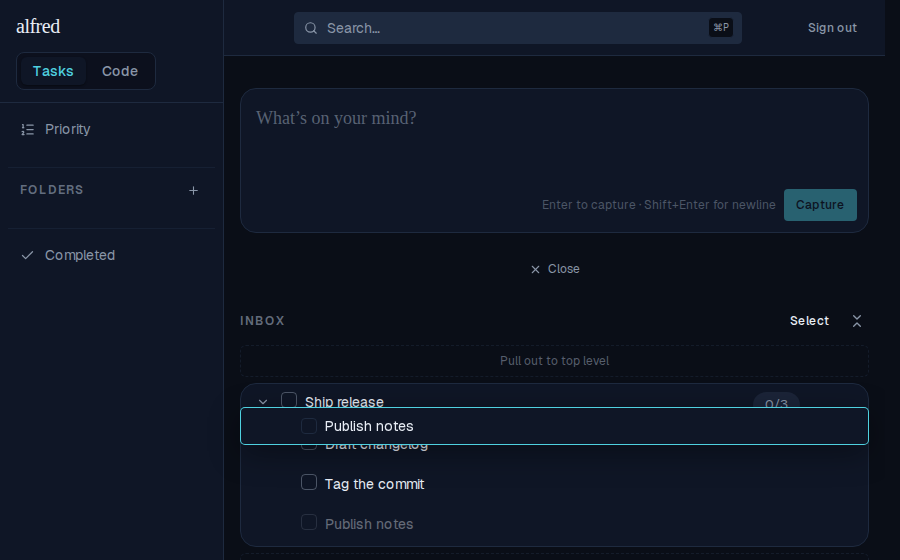
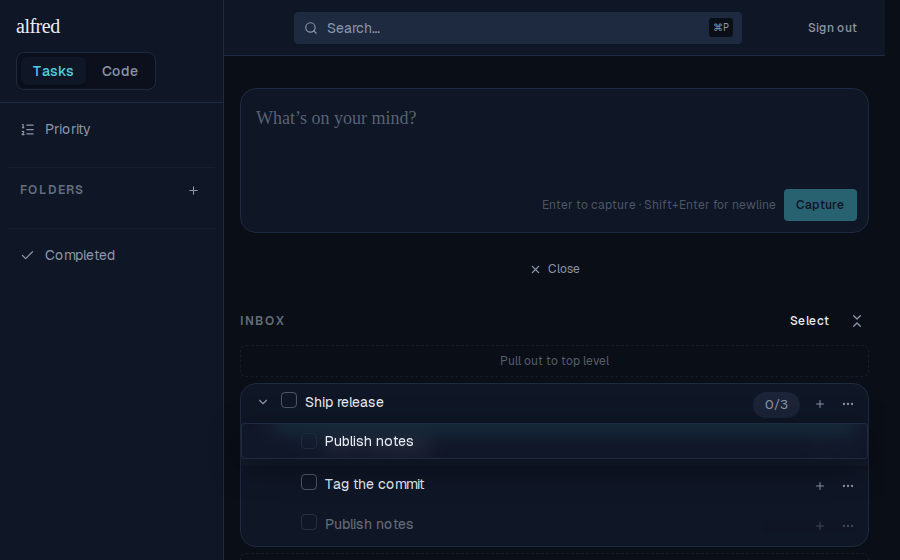
fix(tasks): make the reorder insertion line legible under a neutral drag ghost

Changed region(s): [[0.28, 0.7286, 0.9644, 0.8196], [0.9022, 0.6982, 0.9333, 0.7286]]

diff --git a/frontend/components/tasks/task-dnd-provider.tsx b/frontend/components/tasks/task-dnd-provider.tsx
@@ -252,9 +252,13 @@ export function TaskDndProvider({ children }: { children: React.ReactNode }) {
         {children}
         <DragOverlay>
           {activeTask ? (
-            // Mirror the row's layout so title text aligns with the dimmed in-place row, eliminating the jump on drag cancel.
+            // Mirror the row's layout so title text aligns with the dimmed in-place row,
+            // eliminating the jump on drag cancel. A translucent, NEUTRAL-outlined ghost (backdrop
+            // blur keeps its own text legible): teal is reserved for the drop signal — the reorder
+            // insertion line and the re-parent target highlight — so it isn't lost against a teal
+            // ghost, and the rows the ghost passes over stay visible through it.
             <div
-              className="flex items-center gap-2 rounded-sm bg-surface py-2 pr-2 text-sm ring-1 ring-accent-teal shadow-[0_8px_32px_0_rgba(0,0,0,0.4)]"
+              className="flex items-center gap-2 rounded-sm bg-surface/70 py-2 pr-2 text-sm ring-1 ring-inset ring-border backdrop-blur-sm shadow-[0_8px_32px_0_rgba(0,0,0,0.4)]"
               style={{ paddingLeft: `${String(activeDragDepth * 1.25 + 0.75)}rem` }}
             >
               <div aria-hidden="true" className="h-5 w-5 shrink-0" />

diff --git a/frontend/components/tasks/subtask-gap.tsx b/frontend/components/tasks/subtask-gap.tsx
@@ -57,7 +57,10 @@ export function SubtaskGap({
     >
       <div
         className={cn(
-          'absolute inset-x-0 top-1/2 h-0.5 -translate-y-1/2 rounded-full bg-accent-teal',
+          'absolute inset-x-0 top-1/2 h-1 -translate-y-1/2 rounded-full bg-accent-teal',
+          // A soft teal glow so the line reads clearly even where the translucent drag ghost
+          // overlaps it (the drop slot must be legible under the dragged row).
+          'shadow-[0_0_8px_1px_var(--color-accent-teal)]',
           'transition-opacity motion-reduce:transition-none',
           active ? 'opacity-100' : 'opacity-0',
         )}

diff --git a/docs/demos/subtask-reorder/subtask-reorder.md b/docs/demos/subtask-reorder/subtask-reorder.md
@@ -14,7 +14,7 @@ The "Ship release" task holds three subtasks in creation order: Draft changelog 
 
 ![](subtask-reorder-image-1.png)
 
-Dragging "Publish notes" up: thin, layout-neutral drop strips sit at each sibling boundary. Hovering the gap above the first row reveals a teal insertion line (the row body would instead re-parent). A DragOverlay clone floats under the cursor while the in-place row dims.
+Dragging "Publish notes" up: thin, layout-neutral drop strips sit at each sibling boundary. Hovering the gap above the first row reveals a teal insertion line marking the target slot (dropping on the row body would instead re-parent). The dragged row lifts as a translucent, neutral ghost under the cursor — teal is reserved for the drop indicator — while the in-place row dims and stays visible beneath.
 
 ![](subtask-reorder-image-2.png)
 
